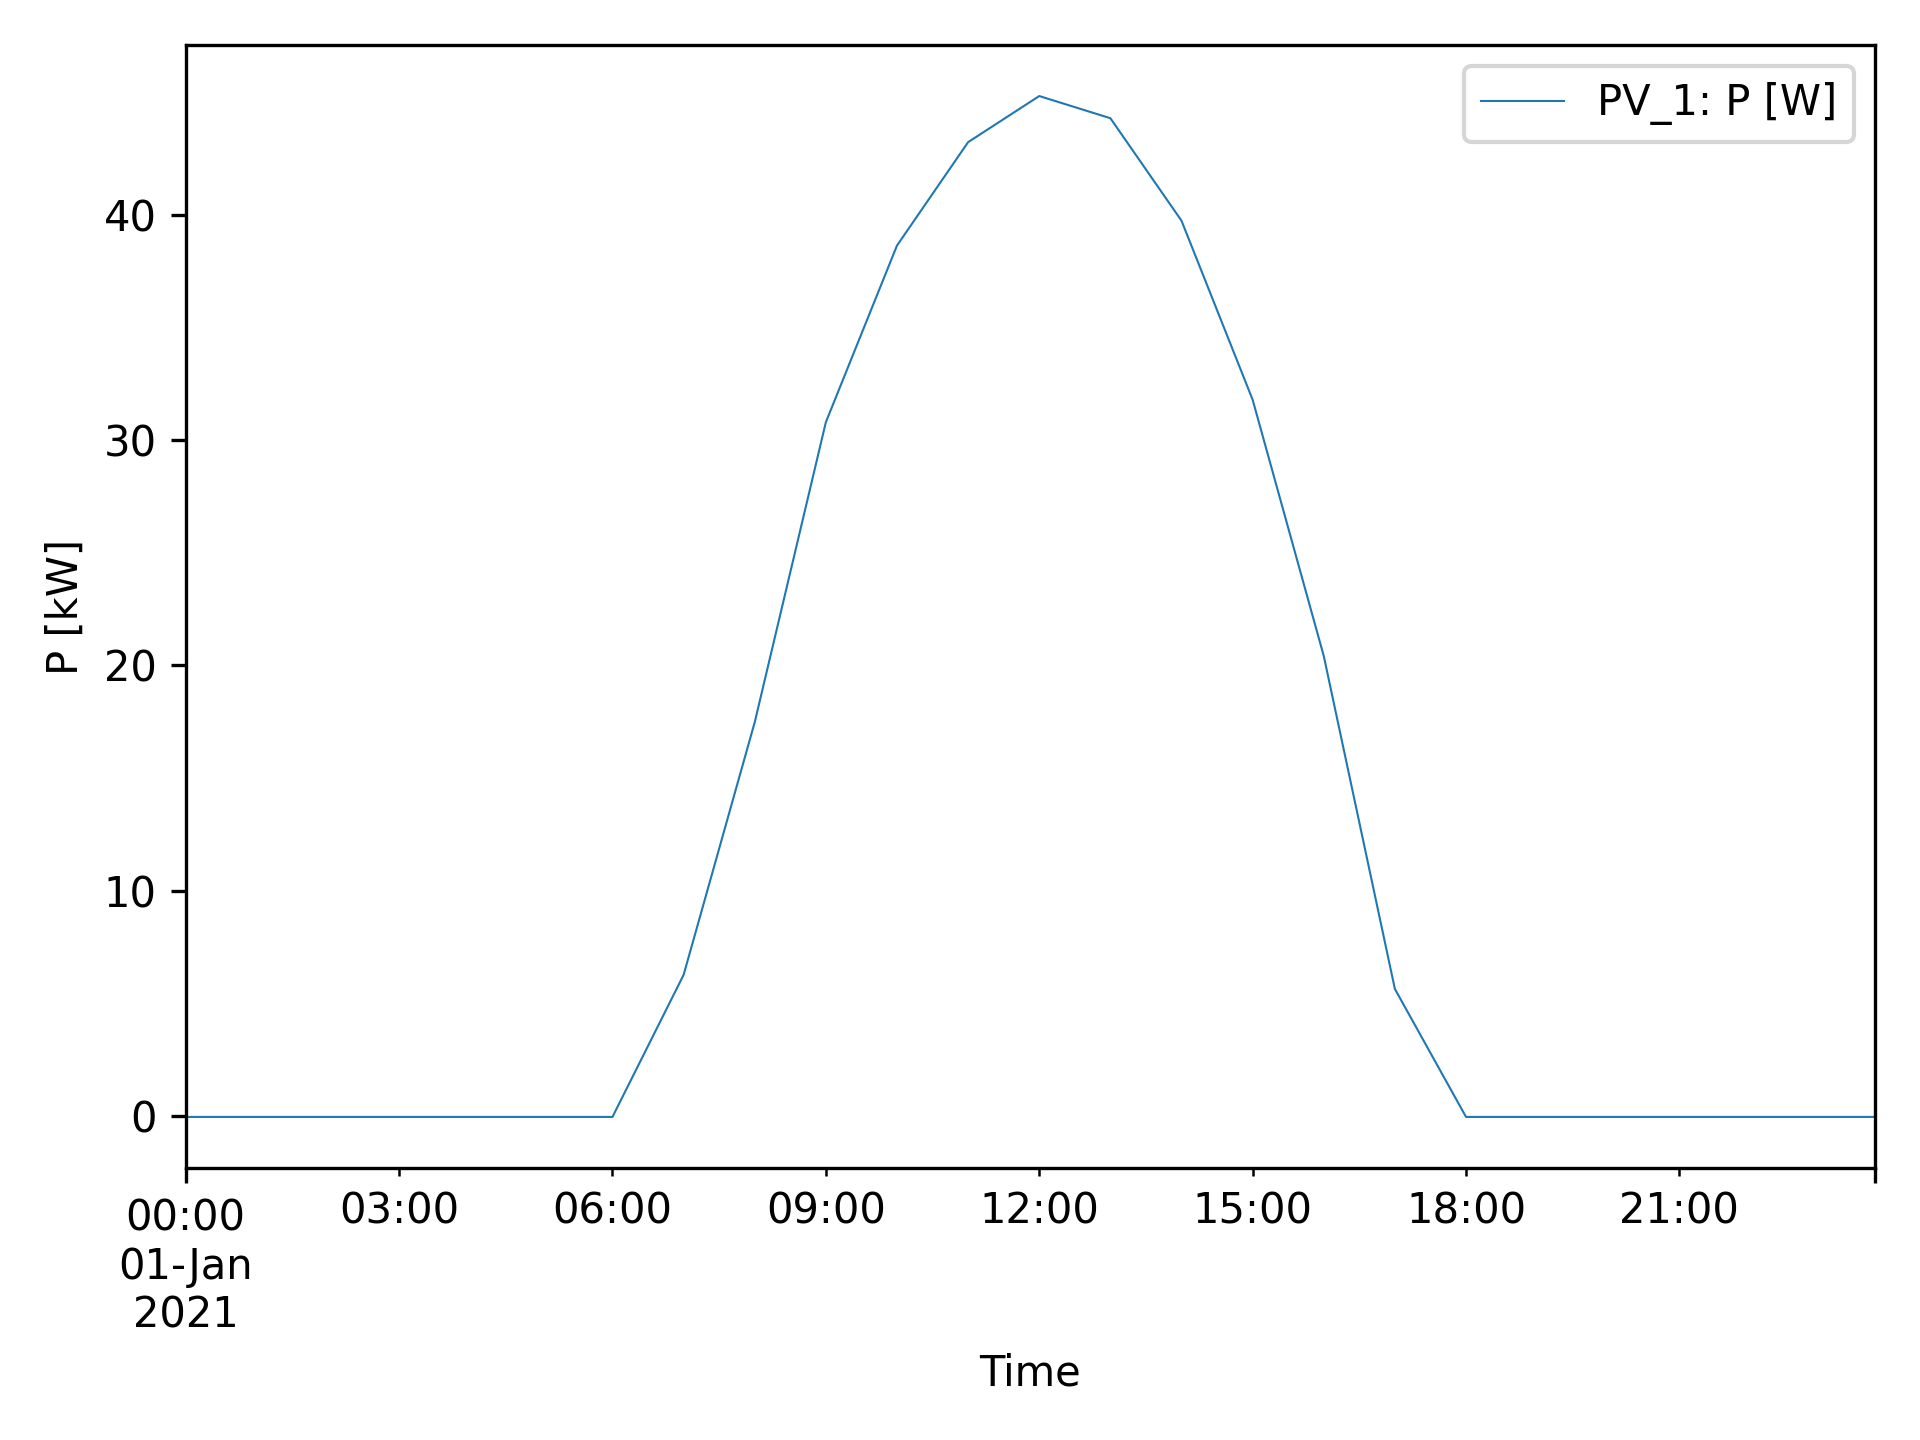
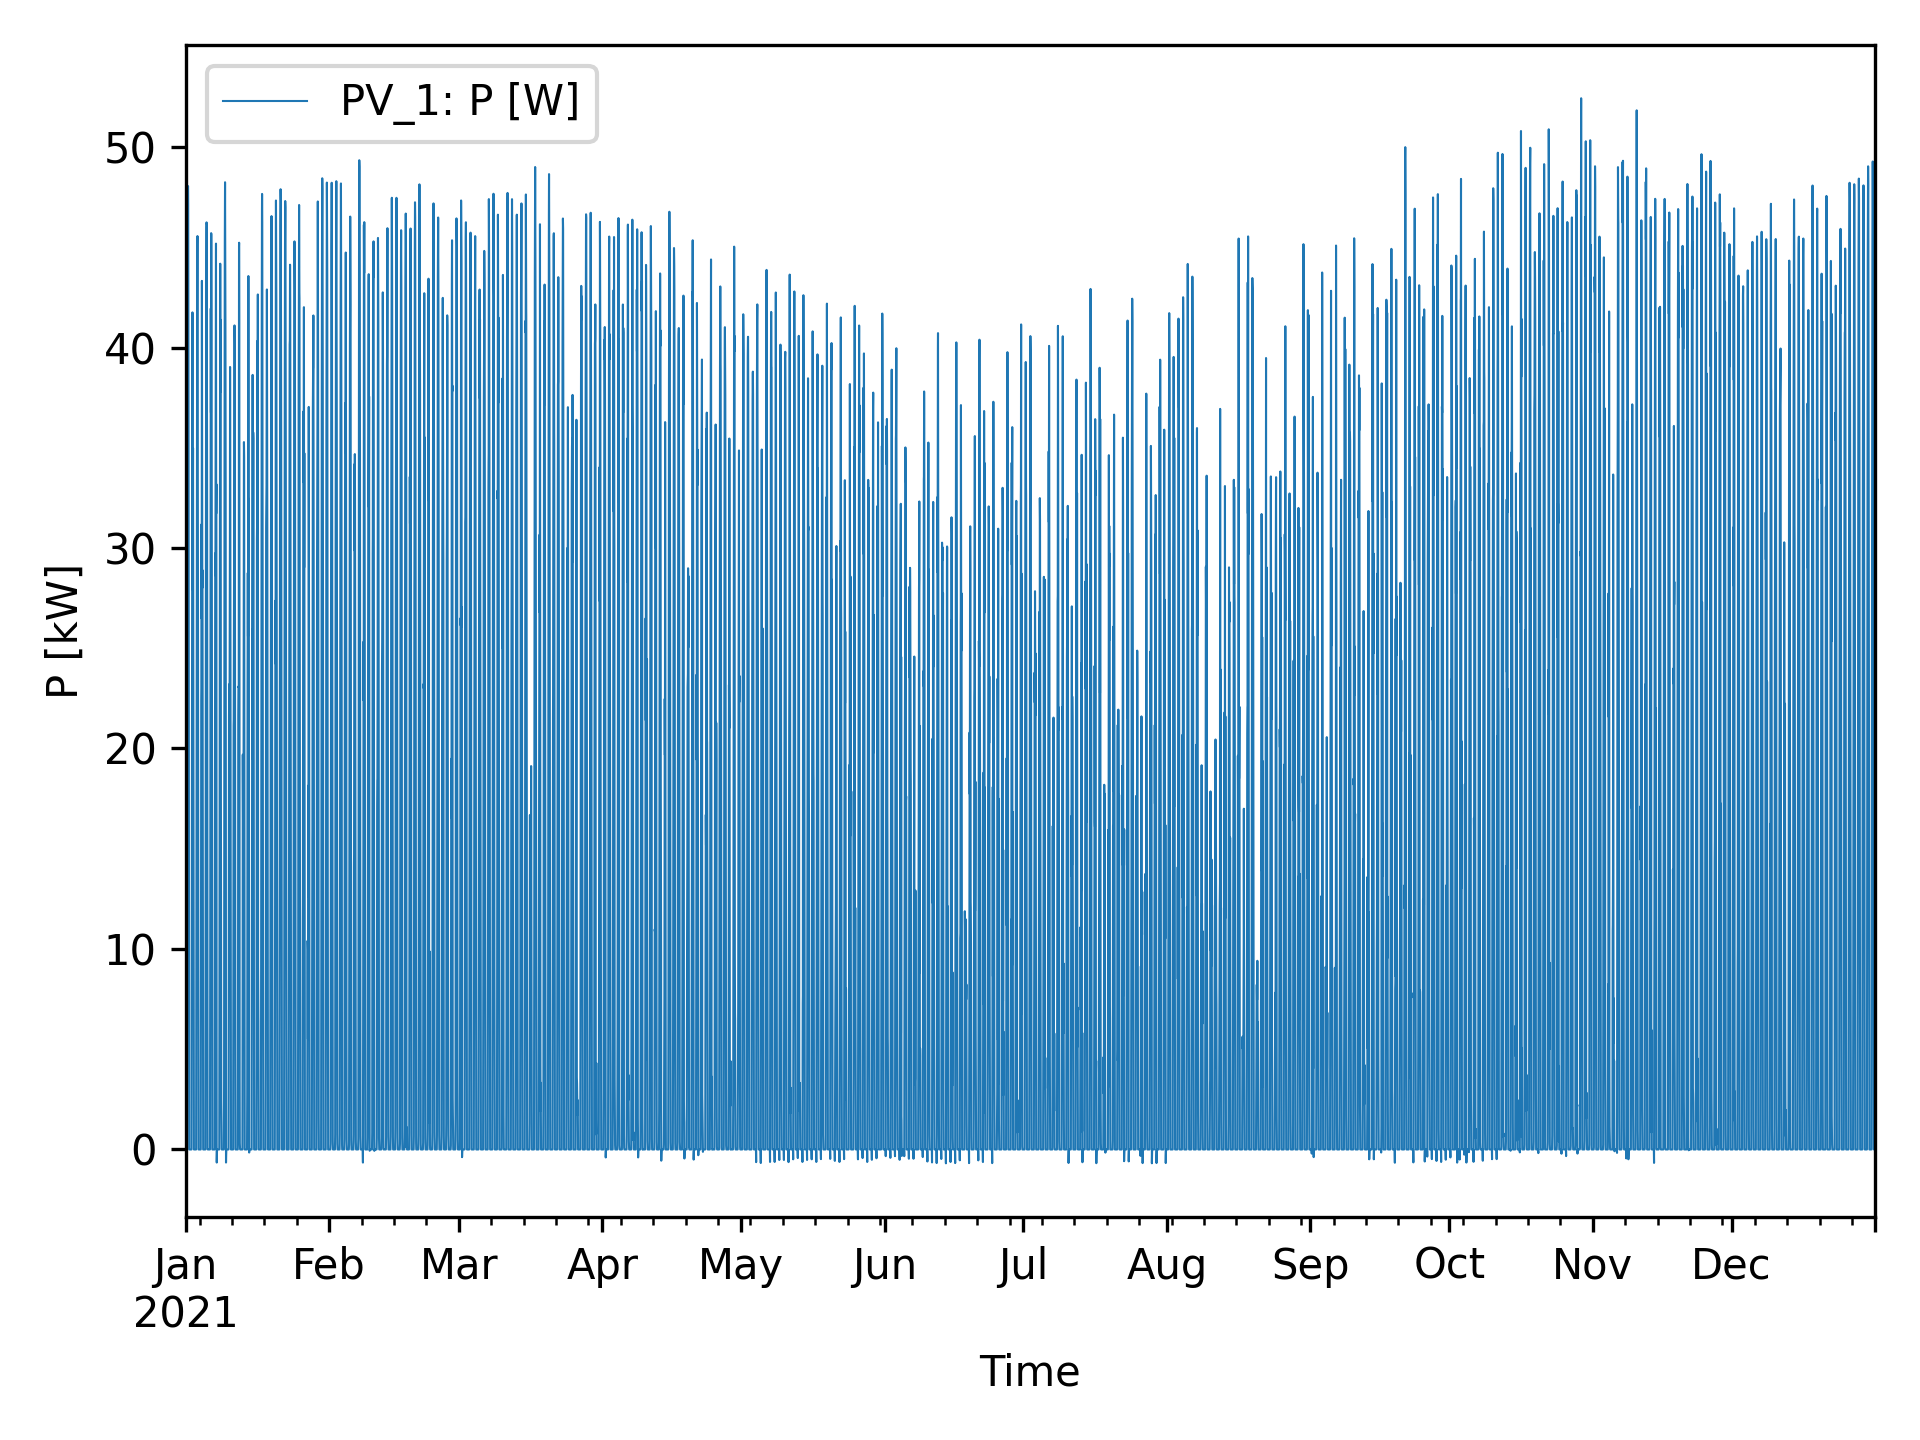
Add ecologic and system evaluation

diff --git a/operation.py b/operation.py
@@ -10,6 +10,7 @@ from pv import PV
 from dieselgenerator import DieselGenerator
 from windturbine import WindTurbine
 from storage import Storage
+from grid import Grid
 from lcoe.lcoe import lcoe as py_lcoe
 
 
@@ -35,11 +36,10 @@ class Operator:
         self.df = self.build_df()
         self.dispatch()
         self.energy_supply_parameters = self.calc_energy_parameters()
-        self.evaluation = self.evaluate_system()
-        print(self.evaluation)
+        self.evaluation_df = self.evaluate_system()
+        print(self.evaluation_df)
 
     ''' Basic Functions'''
-
     def build_df(self):
         """
         Assign columns to pd.DataFrame
@@ -72,7 +72,6 @@ class Operator:
         return df
 
     ''' Simulation '''
-
     def dispatch(self):
         """
         dispatch dispatch:
@@ -106,7 +105,6 @@ class Operator:
         self.power_sink_max = float(self.power_sink.max())
         if len(self.power_sink) > 0:
             self.system_covered = False
-            # print('Residual load is not covered with current system components. ' + str(self.power_sink_max) + ' W missing.')
         else:
             self.system_covered = True
 
@@ -273,32 +271,32 @@ class Operator:
         Calculate total energy supply for each component group.
         :return:
         """
-        pv_energy = 0
-        wt_energy = 0
-        grid_energy = 0
-        dg_energy = 0
-        es_charge = 0
-        es_discharge = 0
-        charge_values = []
-        discharge_values = []
+        pv_energy = {}
+        wt_energy = {}
+        grid_energy = {}
+        dg_energy = {}
+        es_charge = {}
+        es_discharge = {}
         for pv in self.env.pv:
             col = pv.name + ' [W]'
-            pv_energy += self.df[col].sum() * self.env.i_step / 60 / 1000
+            pv_energy[pv.name] = self.df[col].sum() * self.env.i_step / 60 / 1000
         for wt in self.env.wind_turbine:
             col = wt.name + ' [W]'
-            wt_energy += self.df[col].sum() * self.env.i_step / 60 / 1000
+            wt_energy[wt.name] = self.df[col].sum() * self.env.i_step / 60 / 1000
         for grid in self.env.grid:
             col = grid.name + ' [W]'
-            grid_energy += self.df[col].sum() * self.env.i_step / 60 / 1000
+            grid_energy[grid.name] = self.df[col].sum() * self.env.i_step / 60 / 1000
         for dg in self.env.diesel_generator:
             col = dg.name + ' [W]'
-            dg_energy += self.df[col].sum() * self.env.i_step / 60 / 1000
+            dg_energy[dg.name] = self.df[col].sum() * self.env.i_step / 60 / 1000
         for es in self.env.storage:
             col = es.name + ' [W]'
+            charge_values = []
+            discharge_values = []
             charge_values.extend(np.where(self.df[col] > 0, self.df[col], 0).tolist())
             discharge_values.extend(np.where(self.df[col] < 0, self.df[col], 0).tolist())
-            es_charge += sum(charge_values) * self.env.i_step / 60 / 1000
-            es_discharge += sum(discharge_values) * self.env.i_step / 60 / 1000
+            es_charge[col] = sum(charge_values) * self.env.i_step / 60 / 1000
+            es_discharge[col] = sum(discharge_values) * self.env.i_step / 60 / 1000
 
         return pv_energy, wt_energy, grid_energy, dg_energy, es_charge, es_discharge
 
@@ -306,26 +304,45 @@ class Operator:
 
     def evaluate_system(self):
         """
-
-        :return:
+        Evaluate the system configuration
+        :return: Dict
+            LCOE and CO2-emissions
         """
+        df = pd.DataFrame(columns=['Component',
+                                   'Energy production [kWh]',
+                                   'LCOE [' + self.env.currency,
+                                   'CO2-emissions [kg]'])
         env = self.env
-        pv_lcoe = {}
-        wt_lcoe = {}
-        dg_lcoe = {}
         for pv in env.pv:
             lcoe = self.economic_evaluation(pv)
-            pv_lcoe[pv.name] = lcoe
+            co2 = self.ecological_evaluation(pv)
+            parameters = [pv.name, self.energy_supply_parameters[0][pv.name], lcoe, co2]
+            df.loc[len(df)] = parameters
         for wt in env.wind_turbine:
             lcoe = self.economic_evaluation(wt)
-            wt_lcoe[wt.name] = lcoe
+            co2 = self.ecological_evaluation(wt)
+            parameters = [wt.name, self.energy_supply_parameters[1][wt.name], lcoe, co2]
+            df.loc[len(df)] = parameters
+        for grid in env.grid:
+            lcoe = self.economic_evaluation(grid)
+            co2 = self.ecological_evaluation(grid)
+            parameters = [grid.name, self.energy_supply_parameters[2][grid.name], lcoe, co2]
+            df.loc[len(df)] = parameters
         for dg in env.diesel_generator:
             lcoe = self.economic_evaluation(dg)
-            dg_lcoe[dg.name] = lcoe
+            co2 = self.ecological_evaluation(dg)
+            parameters = [dg.name, self.energy_supply_parameters[3][dg.name], lcoe, co2]
+            df.loc[len(df)] = parameters
 
-        return pv_lcoe, wt_lcoe, dg_lcoe
+        # Calculate System LCOE and CO2-Emissions
+        system_lcoe = self.total_lcoe(df=df)
+        system_co2 = self.total_co2_emissions(df=df)
+        system_parameters = ['System', self.energy_consumption, system_lcoe, system_co2]
+        df.loc[len(df)] = system_parameters
 
-    def economic_evaluation(self, component: DieselGenerator or PV or WindTurbine):
+        return df
+
+    def economic_evaluation(self, component: object):
         """
         Calculate component levelized cot of energy (LCOE)
         :param component: object
@@ -333,18 +350,28 @@ class Operator:
         :return: float
             LCOE
         """
-        capital_cost = component.c_invest_n * component.p_n / 1000
+        name = component.name
         # Get component specific parameters
         if isinstance(component, PV):
+            capital_cost = component.c_invest_n * component.p_n / 1000
             annual_operating_cost = component.c_op_main_n * component.p_n / 1000
-            annual_output = self.energy_supply_parameters[0]
+            annual_output = self.energy_supply_parameters[0][name]
         elif isinstance(component, WindTurbine):
+            capital_cost = component.c_invest_n * component.p_n / 1000
             annual_operating_cost = component.c_op_main_n * component.p_n / 1000
-            annual_output = self.energy_supply_parameters[1]
-        else:
-            annual_output = self.energy_supply_parameters[3]
+            annual_output = self.energy_supply_parameters[1][name]
+        elif isinstance(component, DieselGenerator):
+            capital_cost = component.c_invest_n * component.p_n / 1000
+            annual_output = self.energy_supply_parameters[3][name]
             fuel_cost = component.df['Fuel cost [' + self.env.currency + ']'].sum()
             annual_operating_cost = component.c_op_main_n * component.p_n / 1000 + annual_output * component.c_var + fuel_cost
+        else:
+            capital_cost = 0
+            annual_output = self.energy_supply_parameters[2][name]
+            annual_operating_cost = annual_output * self.env.electricity_price
+        if annual_output == 0:
+            return None
+        # Calculate LCOE
         lcoe = self.calc_lcoe(capital_cost=capital_cost,
                               annual_operating_cost=annual_operating_cost,
                               annual_output=annual_output)
@@ -368,11 +395,68 @@ class Operator:
                        lifetime=l)
         return lcoe
 
+    def ecological_evaluation(self, component: DieselGenerator or PV or WindTurbine or Grid):
+        """
+        Calculate CO2-emissions
+        :param component: object
+            energy supply component
+        :return: float
+            CO2-emissions
+        """
+        name = component.name
+        if isinstance(component, PV):
+            annual_output = self.energy_supply_parameters[0][name]
+            co2_o = 0
+            co2_init = component.co2_init
+        elif isinstance(component, WindTurbine):
+            annual_output = self.energy_supply_parameters[1][name]
+            co2_o = 0
+            co2_init = component.co2_init
+        elif isinstance(component, Grid):
+            annual_output = self.energy_supply_parameters[2][name]
+            co2_o = self.env.co2_grid
+            co2_init = 0
+        else:
+            annual_output = self.energy_supply_parameters[3][name]
+            co2_o = self.env.co2_diesel
+            co2_init = component.co2_init
+        co2_emissions = co2_init + co2_o * annual_output * self.env.lifetime
+
+        return co2_emissions
+
+    def total_lcoe(self, df: pd.DataFrame):
+        """
+        Calculate system LCOE
+        :param df: pd.DataFrame
+            Component evaluation parameters
+        :return: float
+            system lcoe
+        """
+        system_lcoe = 0
+        for i in range(len(df)):
+            if df.loc[i, 'LCOE'] is not None:
+                system_lcoe += df.loc[i, 'LCOE'] * df.loc[i, 'Energy production [kWh]'] / self.energy_consumption
+        system_lcoe = system_lcoe
+
+        return system_lcoe
+
+    def total_co2_emissions(self, df: pd.DataFrame):
+        """
+        Calculate system CO2-emissions
+        :param df: pd.DataFrame
+            Component evaluation parameters
+        :return: float
+            system CO2-emissions
+        """
+        total_co2_emission = df['CO2-emissions [kg]'].sum()
+
+        return total_co2_emission
+
 
 if __name__ == '__main__':
     start_time = time.time()
     start = dt.datetime(year=2021, month=1, day=1, hour=0, minute=0)
-    end = dt.datetime(year=2021, month=1, day=1, hour=23, minute=59)
+    end = dt.datetime(year=2021, month=12, day=31, hour=23, minute=59)
     environment = Environment(name='St. Dominics Hospital',
                               time={'start': start, 'end': end, 'step': dt.timedelta(minutes=15), 'timezone': 'CET'},
                               location={'longitude': -0.7983,
@@ -382,11 +466,11 @@ if __name__ == '__main__':
                               grid_connection=False, blackout=False)
     load_profile = 'C:/Users/Rummeny/PycharmProjects/MiGUEL_Fulltime/data/load/St. Dominics Hospital.csv'
     environment.add_load(load_profile=load_profile)
-    # environment.add_pv(p_n=65000,
-    #                    pv_data={'surface_tilt': 20, 'surface_azimuth': 180, 'min_module_power': 250,
-    #                             'max_module_power': 350, 'inverter_power_range': 25000})
+    environment.add_pv(p_n=65000,
+                       pv_data={'surface_tilt': 20, 'surface_azimuth': 180, 'min_module_power': 250,
+                                'max_module_power': 350, 'inverter_power_range': 25000})
     # environment.add_grid()
-    environment.add_wind_turbine(p_n=4200000, turbine_data={"turbine_type": "E-126/4200", "hub_height": 135})
+    # environment.add_wind_turbine(p_n=4200000, turbine_data={"turbine_type": "E-126/4200", "hub_height": 135})
     environment.add_diesel_generator(p_n=30000, fuel_consumption=9.7, fuel_price=1.20)
     environment.add_storage(p_n=10000, c=50000, soc=0.5)
     operator = Operator(env=environment)

diff --git a/windturbine.py b/windturbine.py
@@ -5,10 +5,6 @@ import datetime as dt
 import pandas as pd
 import windpowerlib
 
-# TODO:
-#  - self.interpolate_values/dispatch: interpolate values only for env.df.index
-#  - create container for wind farm: https://windpowerlib.readthedocs.io/en/stable/modules.html#data-container
-
 
 class WindTurbine:
     """
@@ -45,6 +41,7 @@ class WindTurbine:
         self.c_invest_n = 1325.0  # USD/kW IRENA - Renewable Power Generation Costs in 2021, page 63
         self.c_op_main_n = self.c_invest_n * 0.052  # USD/kW Sustainable Energy Handbook Module 6.1 Simplified Financial Models
         self.c_var = 0.0035  # USD/kWh Sustainable Energy Handbook Module 6.1 Simplified Financial Models
+        self.co2_init = 0
         # Location
         self.longitude = location.get('longitude')
         self.latitude = location.get('latitude')

diff --git a/pv.py b/pv.py
@@ -112,6 +112,7 @@ class PV:
         self.c_invest_n = 875  # USD/kW IRENA - Renewable Power Generation Costs in 2021, page 79
         self.c_op_main_n = self.c_invest_n * 0.02  # USD/kW Sustainable Energy Handbook Module 6.1 Simplified Financial Models
         self.c_var = 0.0
+        self.co2_init = 0
         # Dict with technical data
         self.technical_data = {'Component': 'PV System',
                                'Name': self.name,

diff --git a/dieselgenerator.py b/dieselgenerator.py
@@ -35,6 +35,7 @@ class DieselGenerator:
         self.c_var = 0.021  # USD/kWh Sustainable Energy Handbook Moduele 6.1 Simplified Financial Models
         self.fuel_consumption = fuel_consumption  # [l/p_n]
         self.fuel_price = fuel_price  # [US$/l]
+        self.co2_init = 0
         self.df = pd.DataFrame(columns=['P [W]',
                                         'P [%]',
                                         'Fuel Consumption [l/h]',

diff --git a/environment.py b/environment.py
@@ -359,7 +359,7 @@ class Environment:
 
         :return: energy_consumption, peak_load
         """
-        energy_consumption = self.df['P_Res [W]'].sum() * self.i_step / 60
+        energy_consumption = self.df['P_Res [W]'].sum() * self.i_step / 60 / 1000
         peak_load = self.df['P_Res [W]'].max()
 
         return energy_consumption, peak_load
